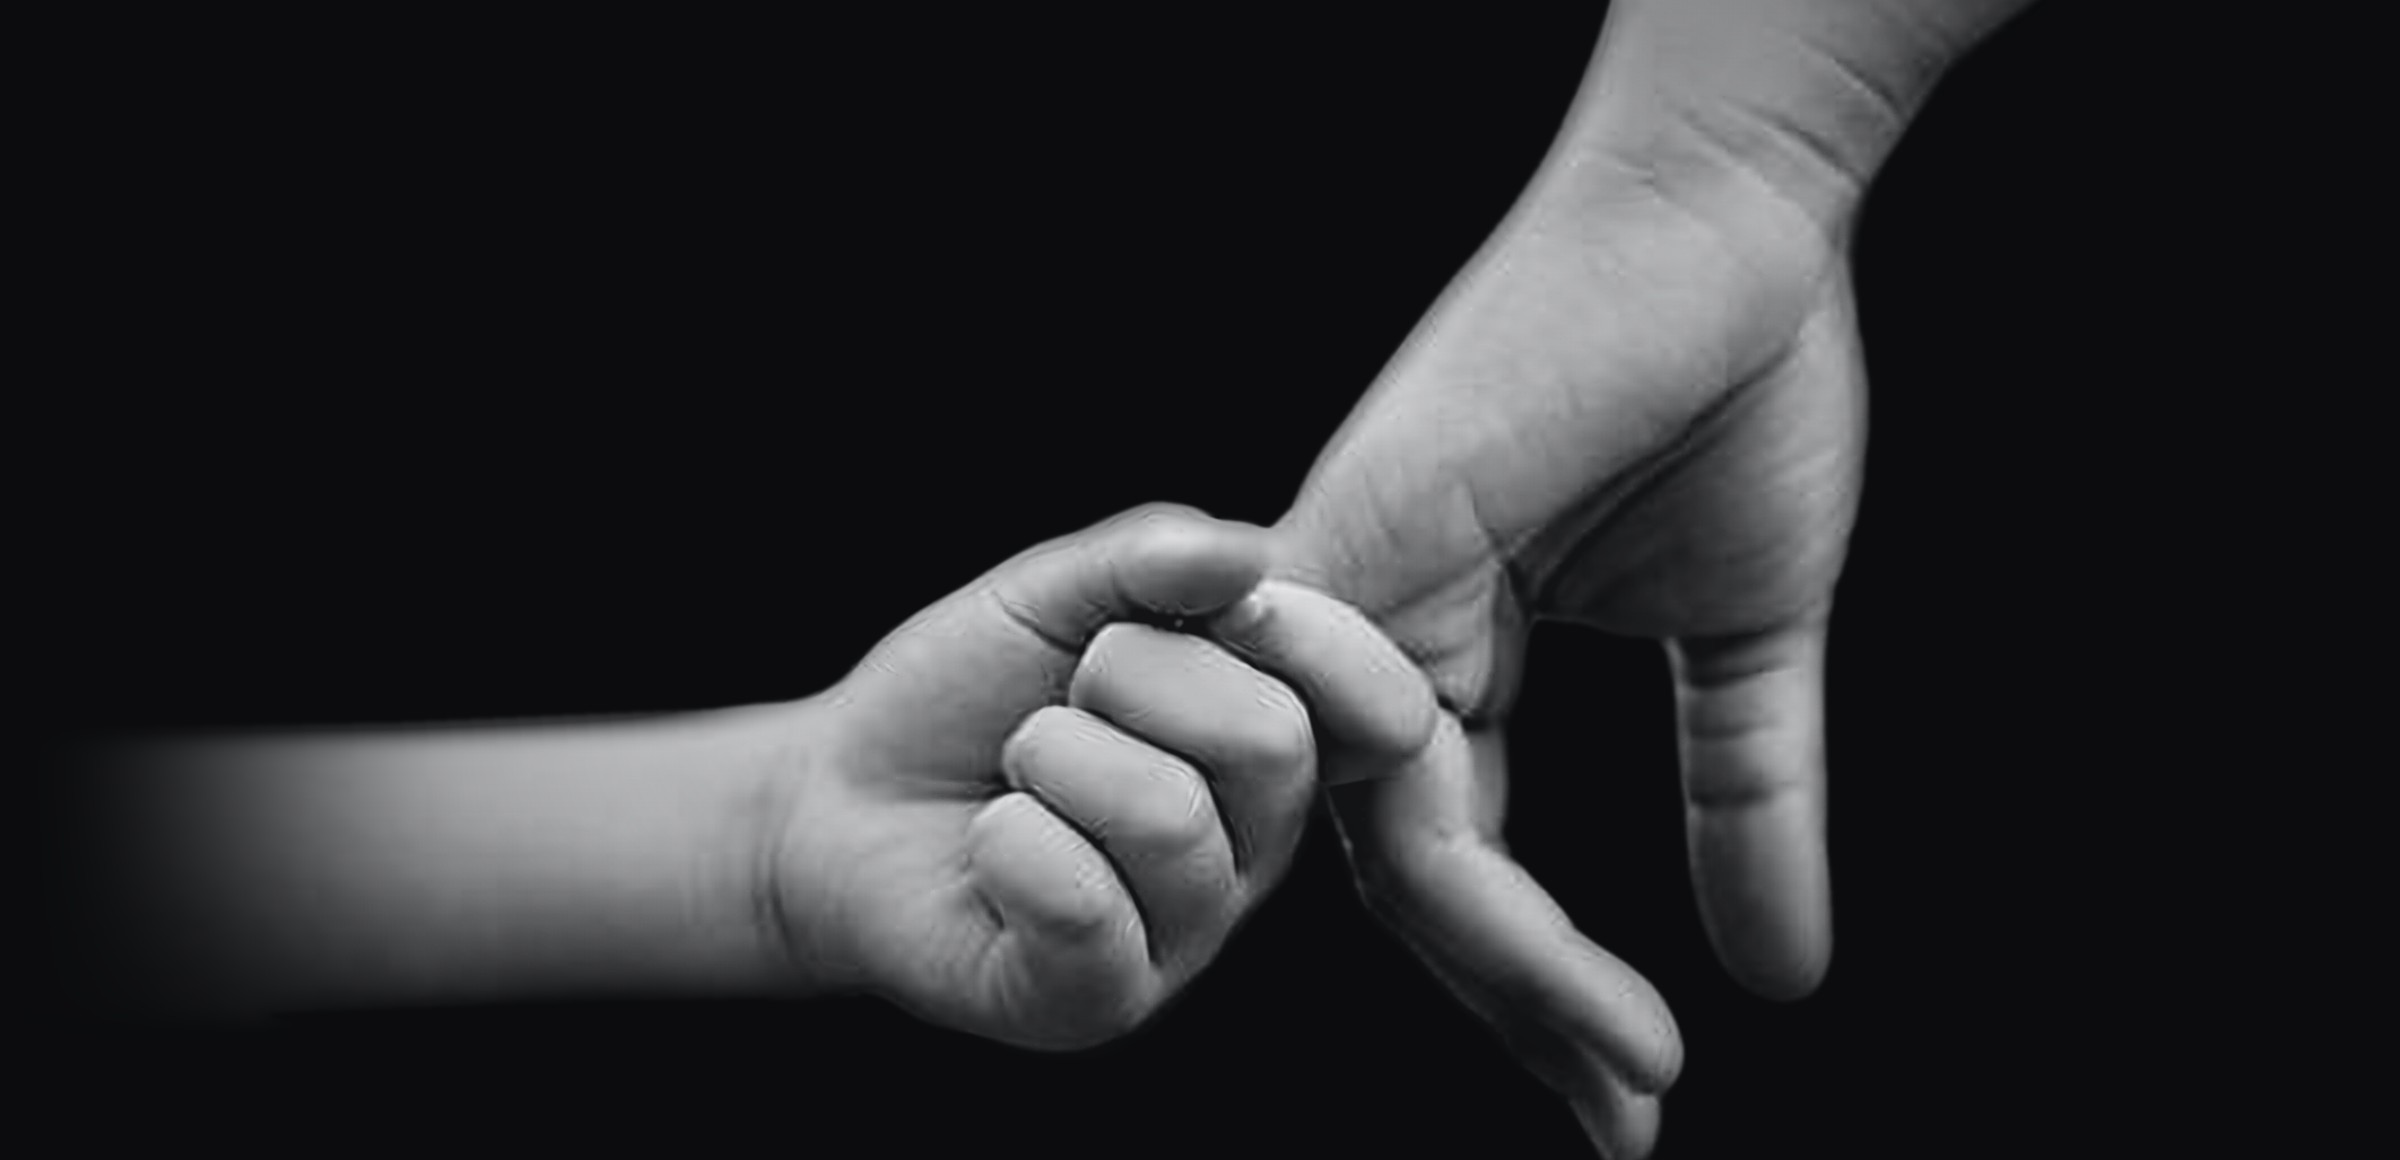
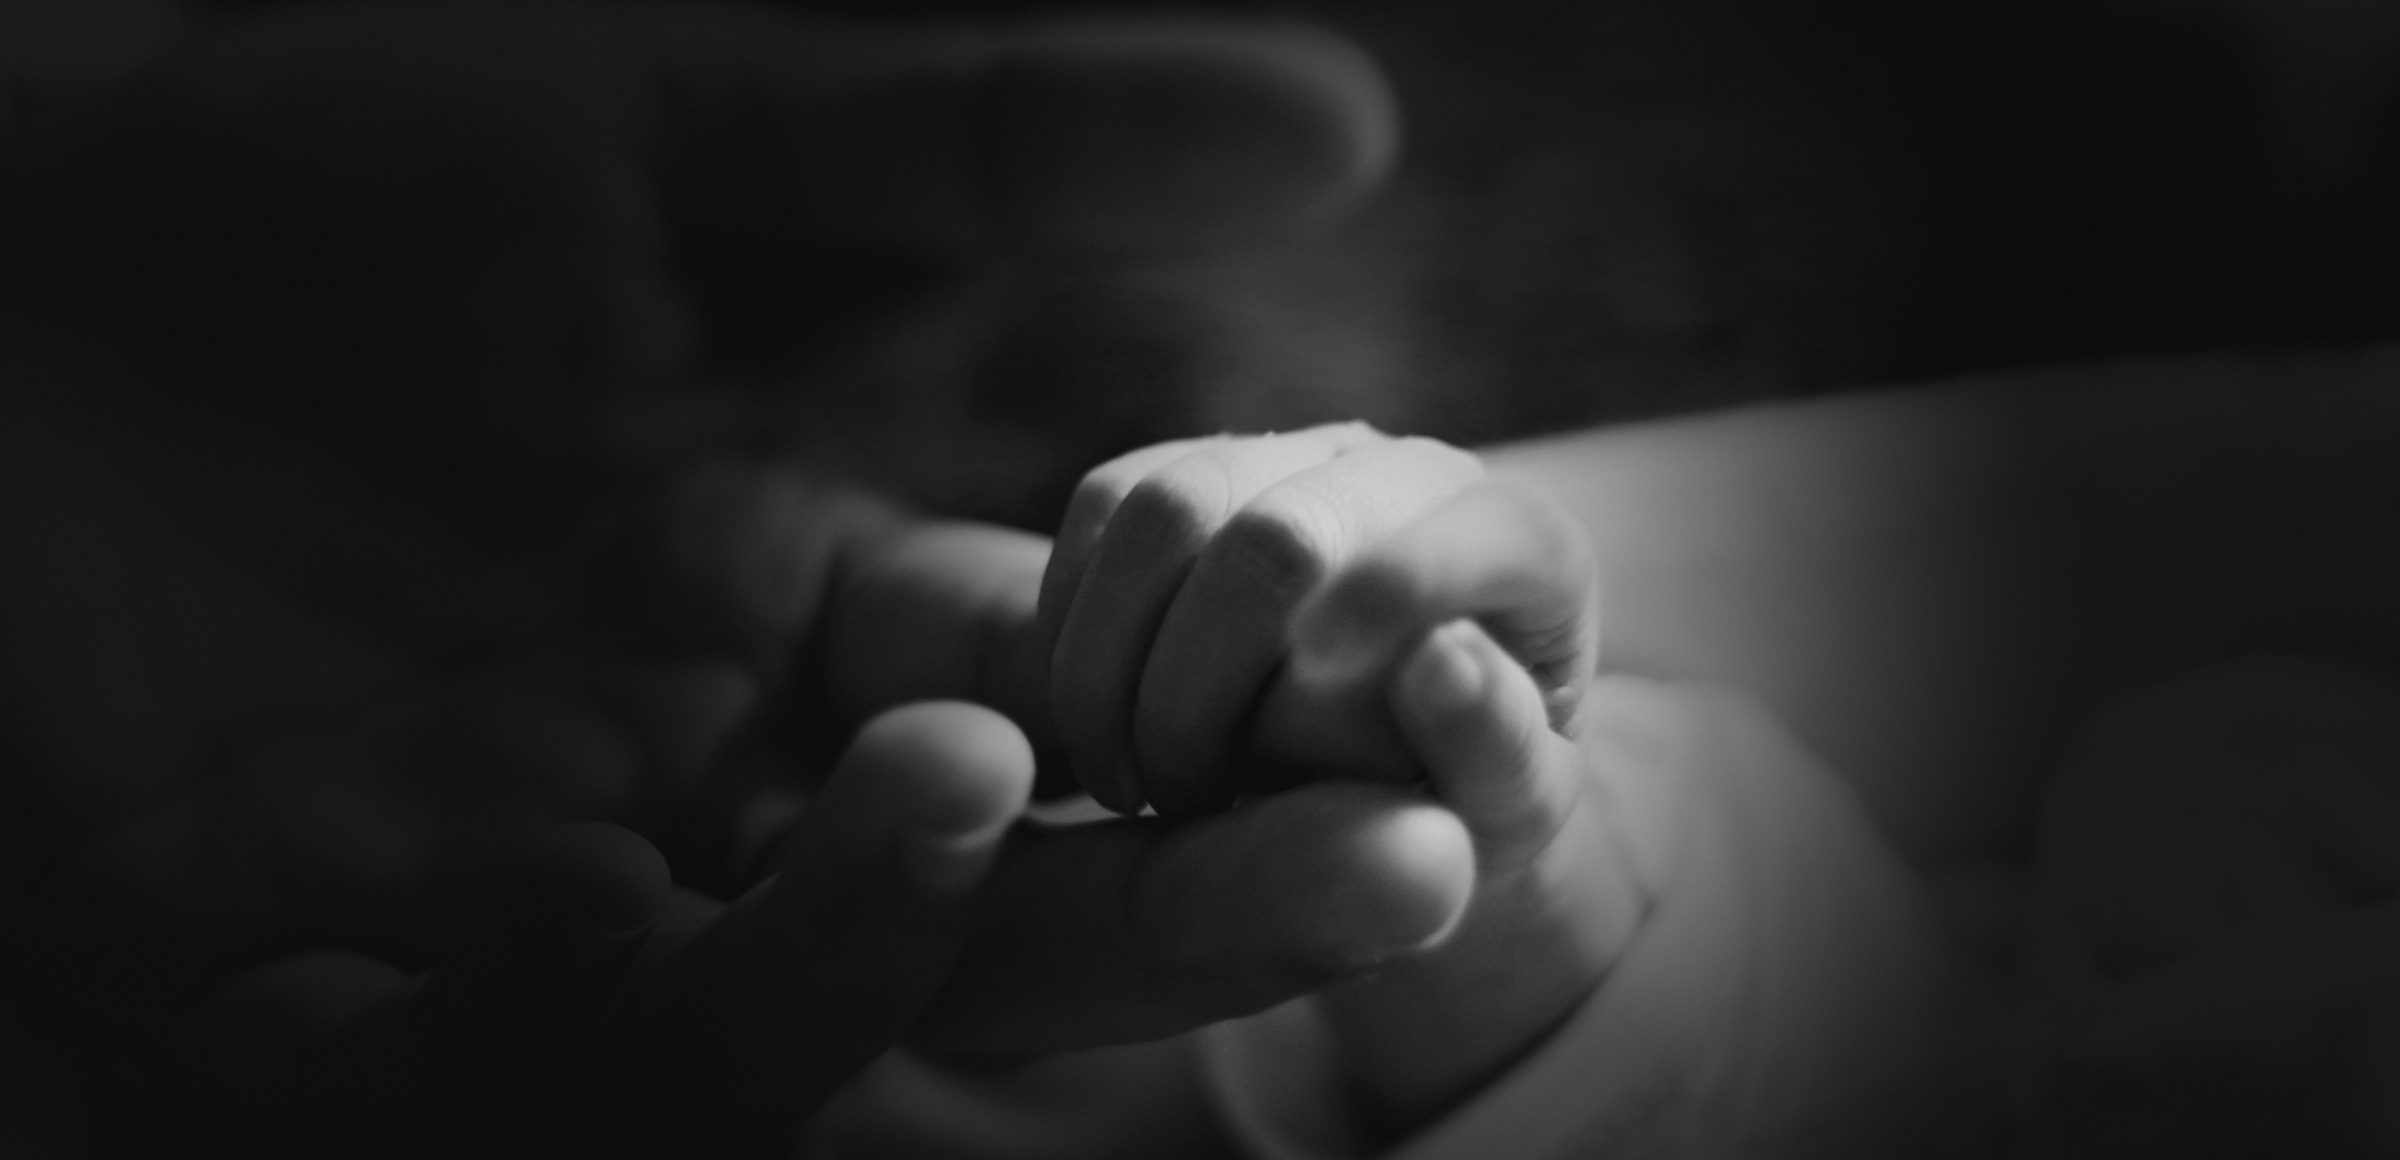
Home: sharper second slide (newborn grip) and gold "bonds" in its caption
Swaps the small, upscaled little-finger photo for a full-resolution
black-and-white photo of a newborn's hand wrapped around a parent's finger
(Unsplash, free licence), graded to the rope's look: a smooth spotlight on the
grip falling away to the page black, with no cut-out edges. The caption now
reads "Some bonds are priceless." with both "bonds" and "priceless" in gold.

Claude-Session: https://claude.ai/code/session_01VuxHoHhbM8KmbNF7ziMb1o

diff --git a/home/home.js b/home/home.js
@@ -1,8 +1,8 @@
 /* Point75 home page (/): the rope. A thick three-strand rope tied in a tight knot, both ends worn and slowly coming
    undone, almost imperceptibly drawn tight and eased over thirty seconds, seen through three frames side by side
    (thin page-coloured gaps cut it into a triptych; the middle one, 30%–70% of the width, holds the whole knot), under a quiet caption and today's Treasury readings (from intelsummary/editions.json).
-   Every two seconds it trades places with a second picture under the same frames (a child's hand gripping a parent's
-   little finger, "Some bonds are priceless."); see startSlides().
+   Every two seconds it trades places with a second picture under the same frames (a newborn's hand wrapped around a parent's
+   finger, "Some bonds are priceless."); see startSlides().
    The header and the left menu come from shell/shell.js. Everything draws in a full-screen layer over the site
    builder's page. p75.js calls render() about once a second, so it is safe to run repeatedly.
    Built from the landing mock (Point75-BusinessPlan/landing/rope-hero.html). (c) Rahul Saxena. All rights reserved. */
@@ -165,7 +165,7 @@
   // the round button pauses it; with reduced motion it starts paused on the rope.
   var SLIDES = [
     { kick: 'Data on what moves bonds', h1: 'Every bond has a <em>breaking point.</em>', alt: 'A thick rope tied in a tight knot, both ends fraying' },
-    { kick: 'The ones we hold onto', h1: 'Some bonds are <em>priceless.</em>', alt: "A child's small hand gripping a parent's little finger" }
+    { kick: 'The ones we hold onto', h1: 'Some <em>bonds</em> are <em>priceless.</em>', alt: "A newborn's tiny hand wrapped around a parent's finger" }
   ];
   var ICON_PAUSE = '<svg viewBox="0 0 16 16" aria-hidden="true"><rect x="3.5" y="2.5" width="3" height="11" rx="1" fill="currentColor"/><rect x="9.5" y="2.5" width="3" height="11" rx="1" fill="currentColor"/></svg>';
   var ICON_PLAY = '<svg viewBox="0 0 16 16" aria-hidden="true"><path d="M4.5 2.8v10.4a.6.6 0 0 0 .9.5l8.2-5.2a.6.6 0 0 0 0-1L5.4 2.3a.6.6 0 0 0-.9.5z" fill="currentColor"/></svg>';
